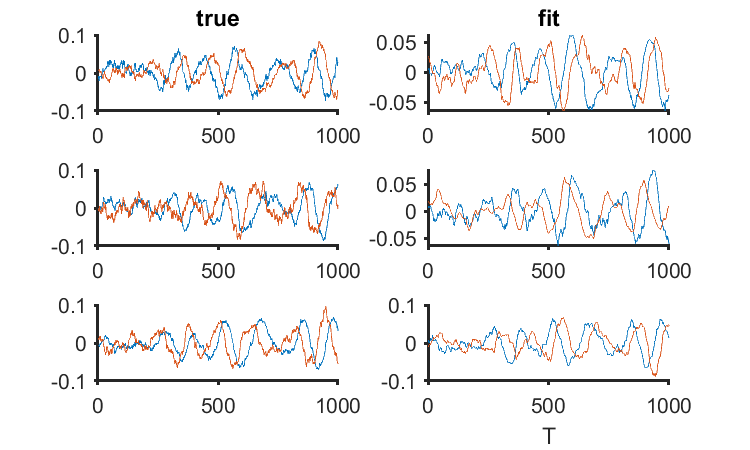
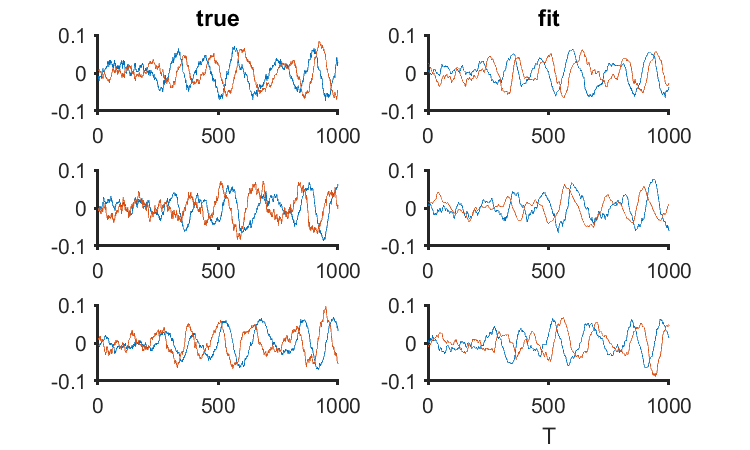
latent scale

diff --git a/plots_code/EAC_ISBA_plots.m b/plots_code/EAC_ISBA_plots.m
@@ -171,27 +171,33 @@ latent = figure;
 subplot(3,2,1)
 plot(X(1:p,:)')
 title('true')
+y1 = ylim;
 set(gca,'FontSize',10, 'LineWidth', 1.5,'TickDir','out')
 box off
 subplot(3,2,2)
 plot(mean(X_fit(1:p,:,idx), 3)')
 title('fit')
+ylim(y1);
 set(gca,'FontSize',10, 'LineWidth', 1.5,'TickDir','out')
 box off
 subplot(3,2,3)
 plot(X(p+1:2*p,:)')
+y2 = ylim;
 set(gca,'FontSize',10, 'LineWidth', 1.5,'TickDir','out')
 box off
 subplot(3,2,4)
 plot(mean(X_fit(p+1:2*p,:,idx), 3)')
+ylim(y2);
 set(gca,'FontSize',10, 'LineWidth', 1.5,'TickDir','out')
 box off
 subplot(3,2,5)
 plot(X(2*p+1:3*p,:)')
+y3 = ylim;
 set(gca,'FontSize',10, 'LineWidth', 1.5,'TickDir','out')
 box off
 subplot(3,2,6)
 plot(mean(X_fit(2*p+1:3*p,:,idx), 3)')
+ylim(y3);
 set(gca,'FontSize',10, 'LineWidth', 1.5,'TickDir','out')
 box off
 xlabel('T')
